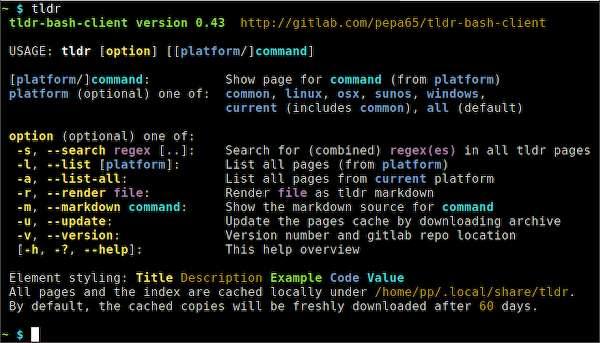
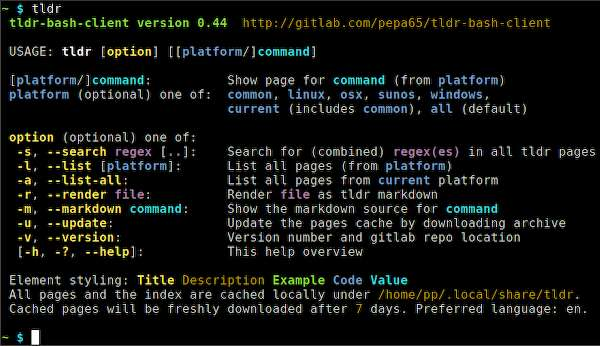
Limited support for languages, missing index.json for other languages. Some bugsquashing, updated screenshots where mandated.

diff --git a/README.md b/README.md
@@ -1,6 +1,6 @@
 # tldr-bash-client
 
-* version 0.43
+* version 0.44
 
 ### Bash client for tldr: community driven man-by-example
 **A fully-functional [bash](https://tiswww.case.edu/php/chet/bash/bashtop.html)
@@ -28,7 +28,7 @@ If the location is not in $PATH, you need to specify the path to run it.
 ### Prerequisites
 coreutils, grep, unzip, curl / wget, less (optional)
 
-<img alt="tldr find screenshot" src="tldr-find.jpg" title="tldr find" width="600" />
+<img alt="tldr search screenshot" src="tldr-search.jpg" title="tldr search" width="600" />
 
 ## Output customisation
 <img alt="tldr customize screenshot" src="tldr-customize.jpg" title="tldr customize" width="600" />
@@ -64,13 +64,15 @@ Color/BG (Newline and Space also allowed) for error and info messages
 * TLDR_INFO_COLOR (defaults to: Newline Space Green)
 
 How many days before freshly downloading a potentially stale page
-* TLDR_EXPIRY (defaults to: 60)
-
+* TLDR_EXPIRY (defaults to 7)
 Alternative location of pages cache
 * TLDR_CACHE (not set by default)
-
-Instead of `less`, use `cat` for output (automatic if less not available)
-* TLDR_LESS (not set by default; if set to *0* `cat` will be used)
+Usage of 'less' or 'cat' for output (set to '0' for cat)
+* TLDR_LESS (*1* by default; if set to *0* `cat` will be used)
+Force current OS
+* TLDR_OS (overrides what is read by `uname -s`)
+Force preferred language: ISO639 format (2 lowercase letters)
+* TLDR_LANG (not set by default, $LANG is used from environment)
 
 <img alt="tldr list screenshot" src="tldr-list.jpg" title="tldr list" width="600" />
 
